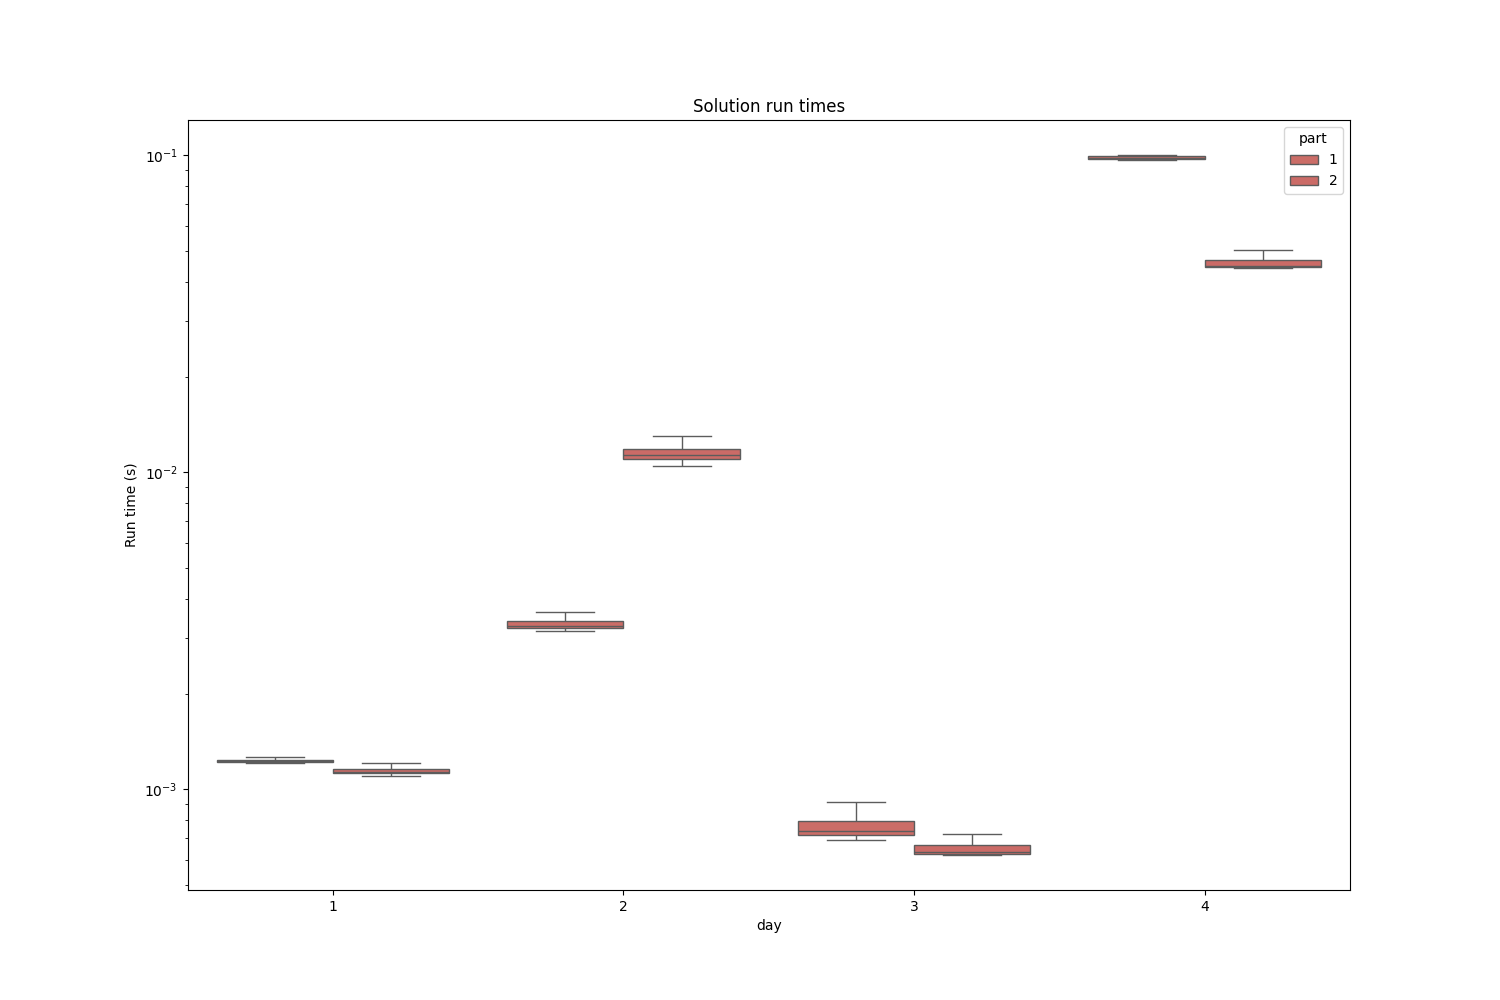
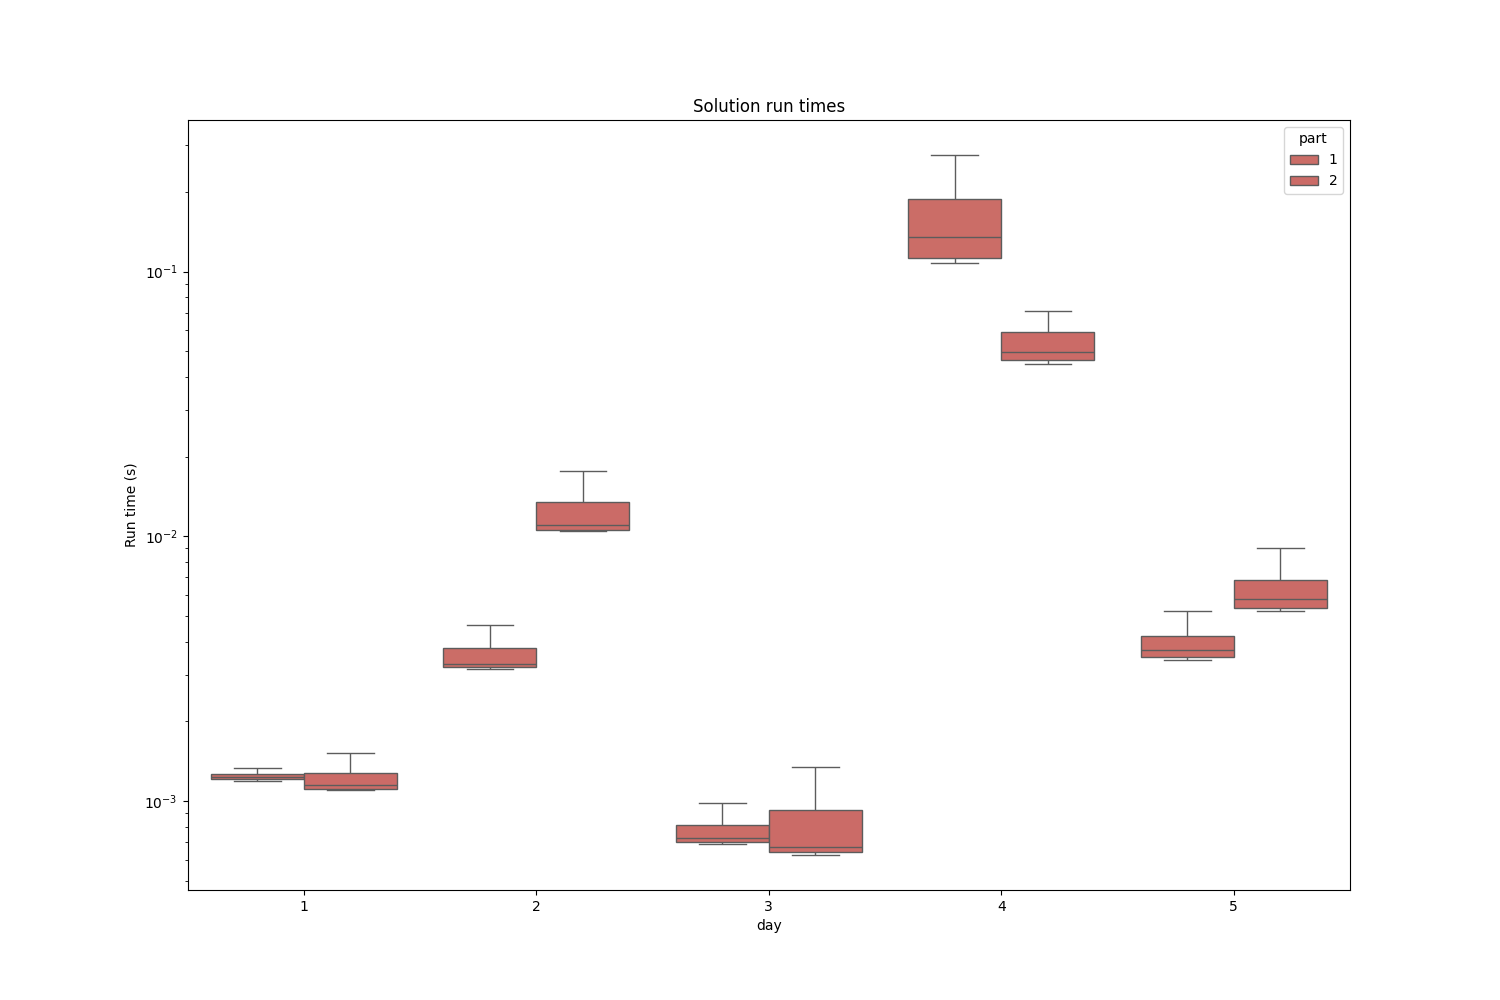
day 5

diff --git a/aoc/day_05.py b/aoc/day_05.py
@@ -1,0 +1,66 @@
+from collections import defaultdict
+
+
+def part_one(file_path: str) -> int:
+    """get the median sum of the number of ordered updates
+
+    Args:
+        file_path (str): filepath
+
+    Returns:
+        int: median sum of ordered updates
+    """
+
+    # read file
+    with open(file_path) as f:
+        lines = f.readlines()
+
+    rules = defaultdict(set)
+    i = 0
+    while lines[i] != "\n":
+        a, b = lines[i].split("|")
+        rules[int(a)].add(int(b))
+        i += 1
+    total = 0
+    for line in lines[i + 1 :]:
+        update = list(map(int, line.split(",")))
+        if all([rules[update[j]] >= set(update[j + 1 :]) for j in range(len(update))]):
+
+            total += update[(len(update) // 2)]
+
+    return total
+
+
+def part_two(file_path: str) -> int:
+    """get the median sum of the number of corrected unordered updates
+
+    Args:
+        file_path (str): filepath
+
+    Returns:
+        int: median sum of the number of corrected unordered updates
+    """
+
+    with open(file_path) as f:
+        lines = f.readlines()
+    rules = defaultdict(set)
+    i = 0
+    while lines[i] != "\n":
+        a, b = lines[i].split("|")
+        rules[int(a)].add(int(b))
+        i += 1
+    total = 0
+    for line in lines[i + 1 :]:
+        update = list(map(int, line.split(",")))
+        if not all(
+            [rules[update[j]] >= set(update[j + 1 :]) for j in range(len(update))]
+        ):
+            total += sorted(update, key=lambda x: len(rules[x] & set(update)))[
+                len(update) // 2
+            ]
+    return total
+
+
+if __name__ == "__main__":
+    print(part_one("aoc/inputs/day_05.txt"))
+    print(part_two("aoc/inputs/day_05.txt"))

diff --git a/tests/test_day_05.py b/tests/test_day_05.py
@@ -1,0 +1,15 @@
+from aoc.day_05 import part_one, part_two
+
+
+def test_part_one():
+
+    test_file_path = "tests/test_inputs/test_day_05.txt"
+
+    assert part_one(test_file_path) == 143
+
+
+def test_part_two():
+
+    test_file_path = "tests/test_inputs/test_day_05.txt"
+
+    assert part_two(test_file_path) == 123
